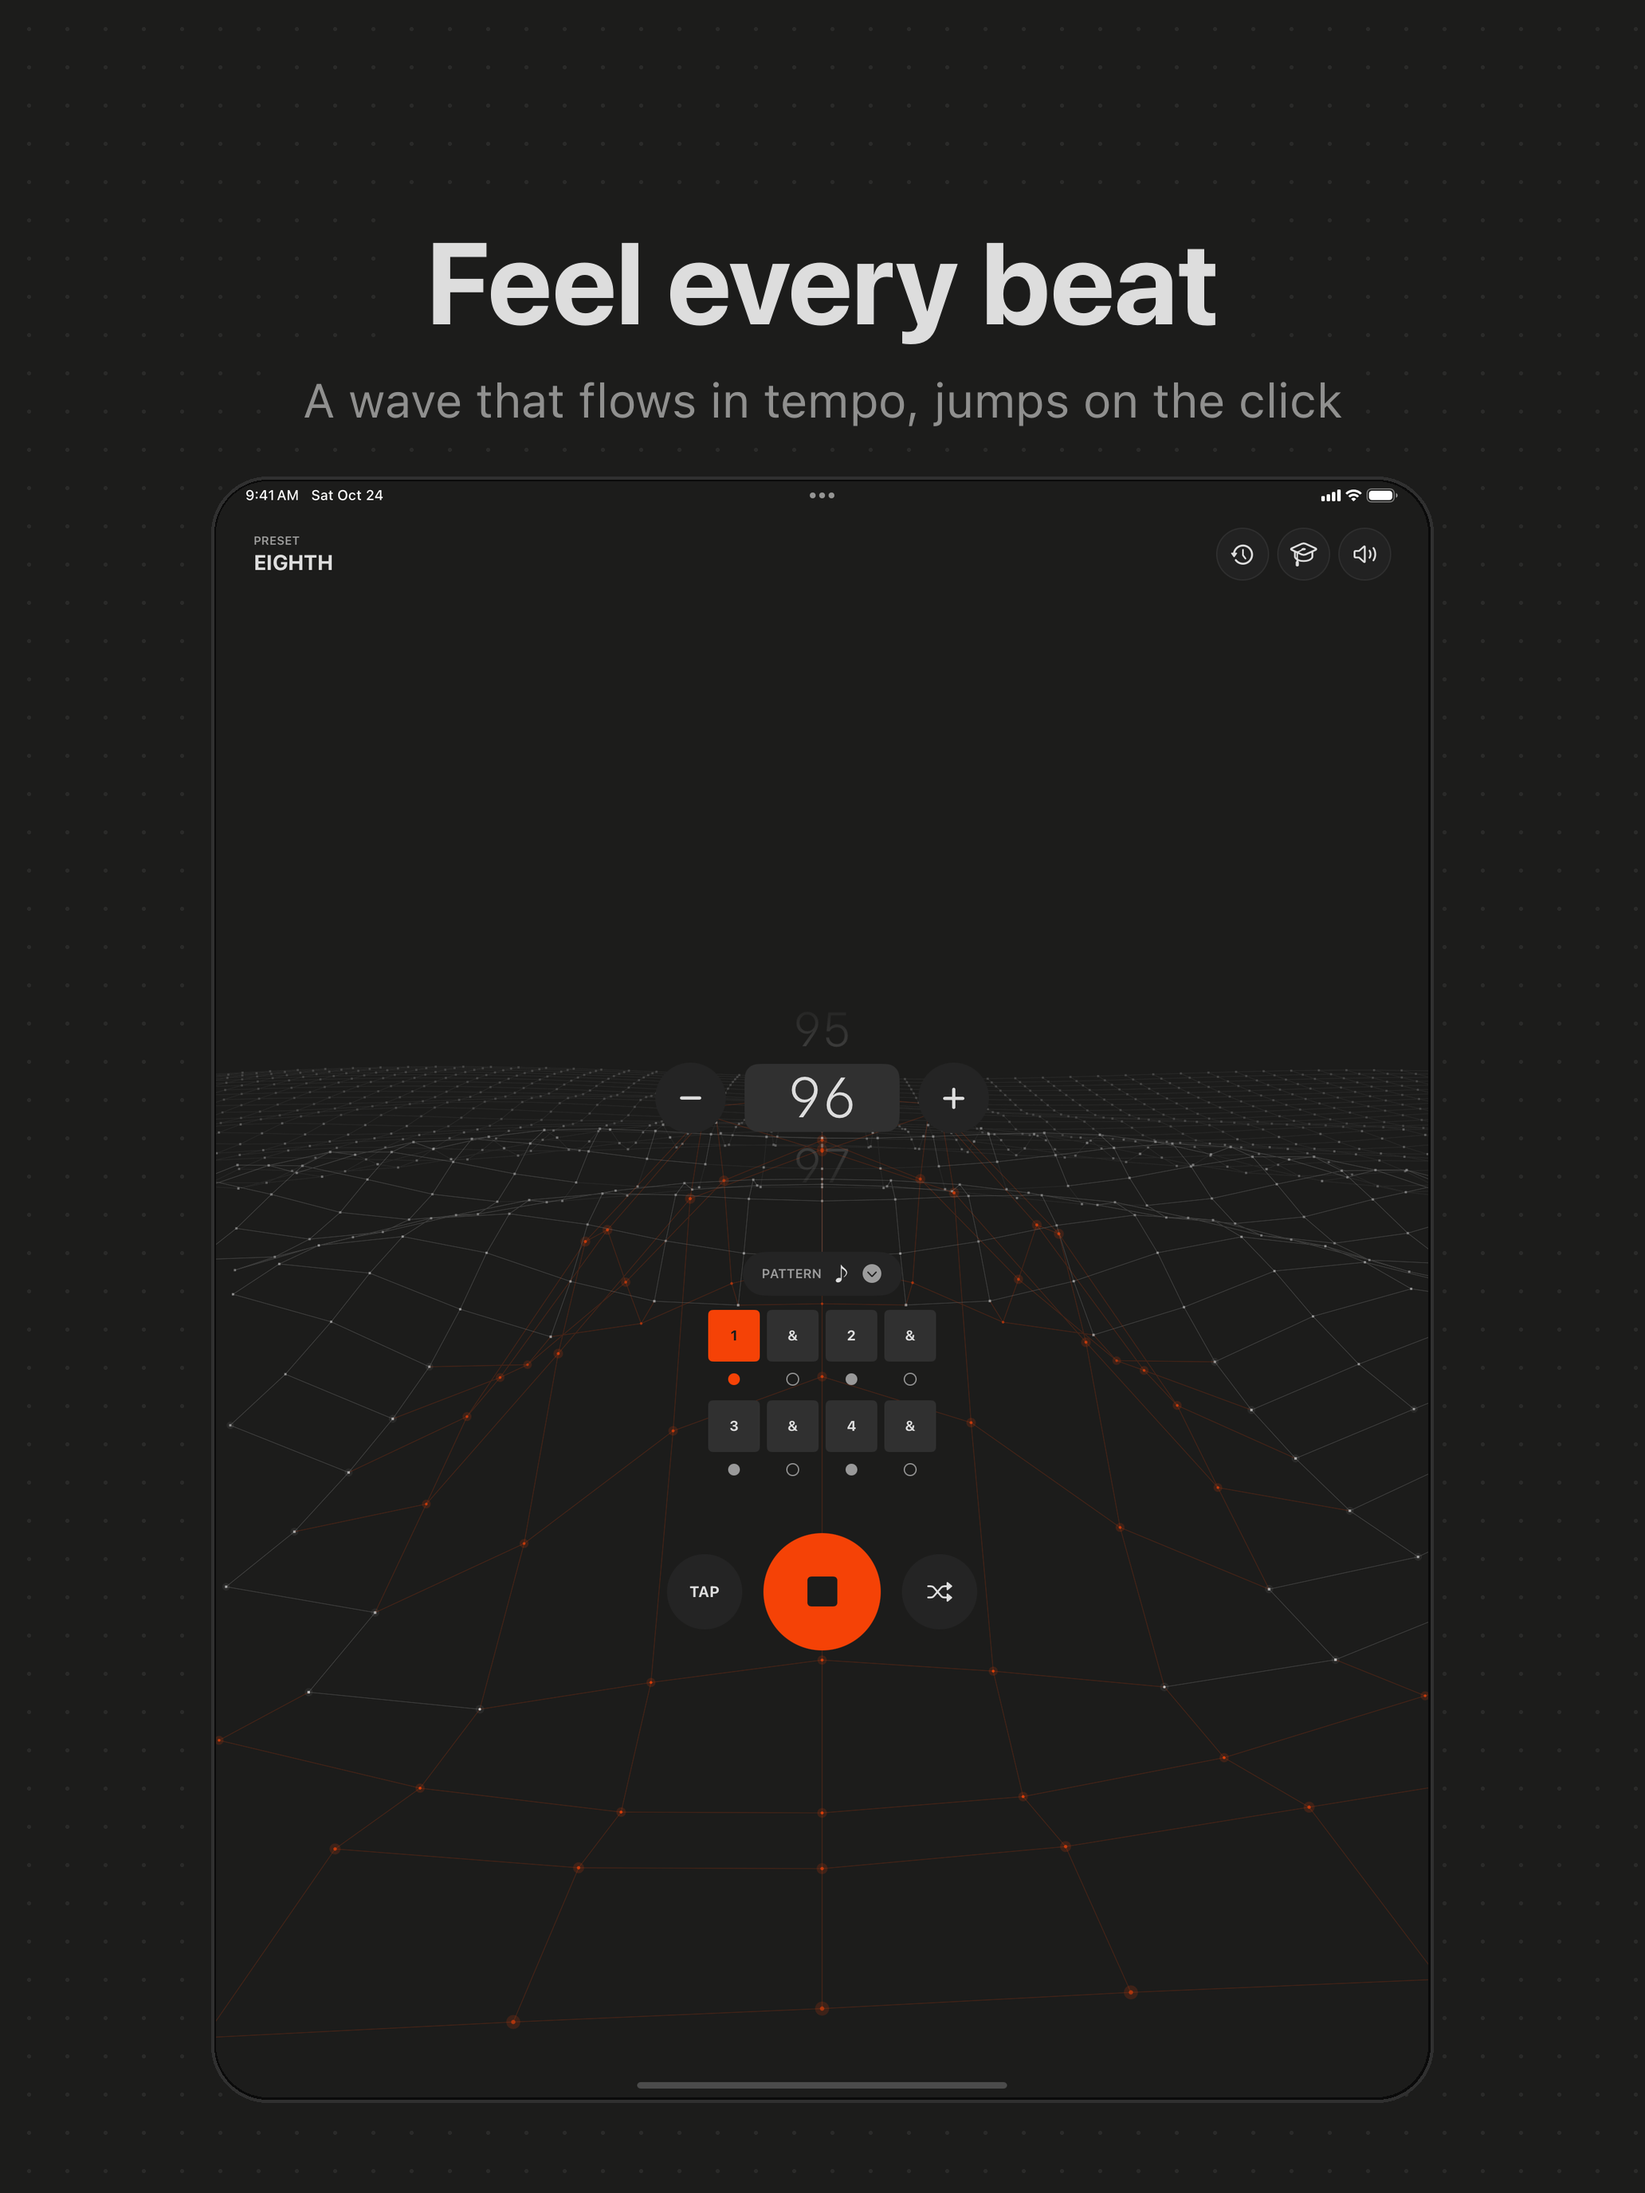
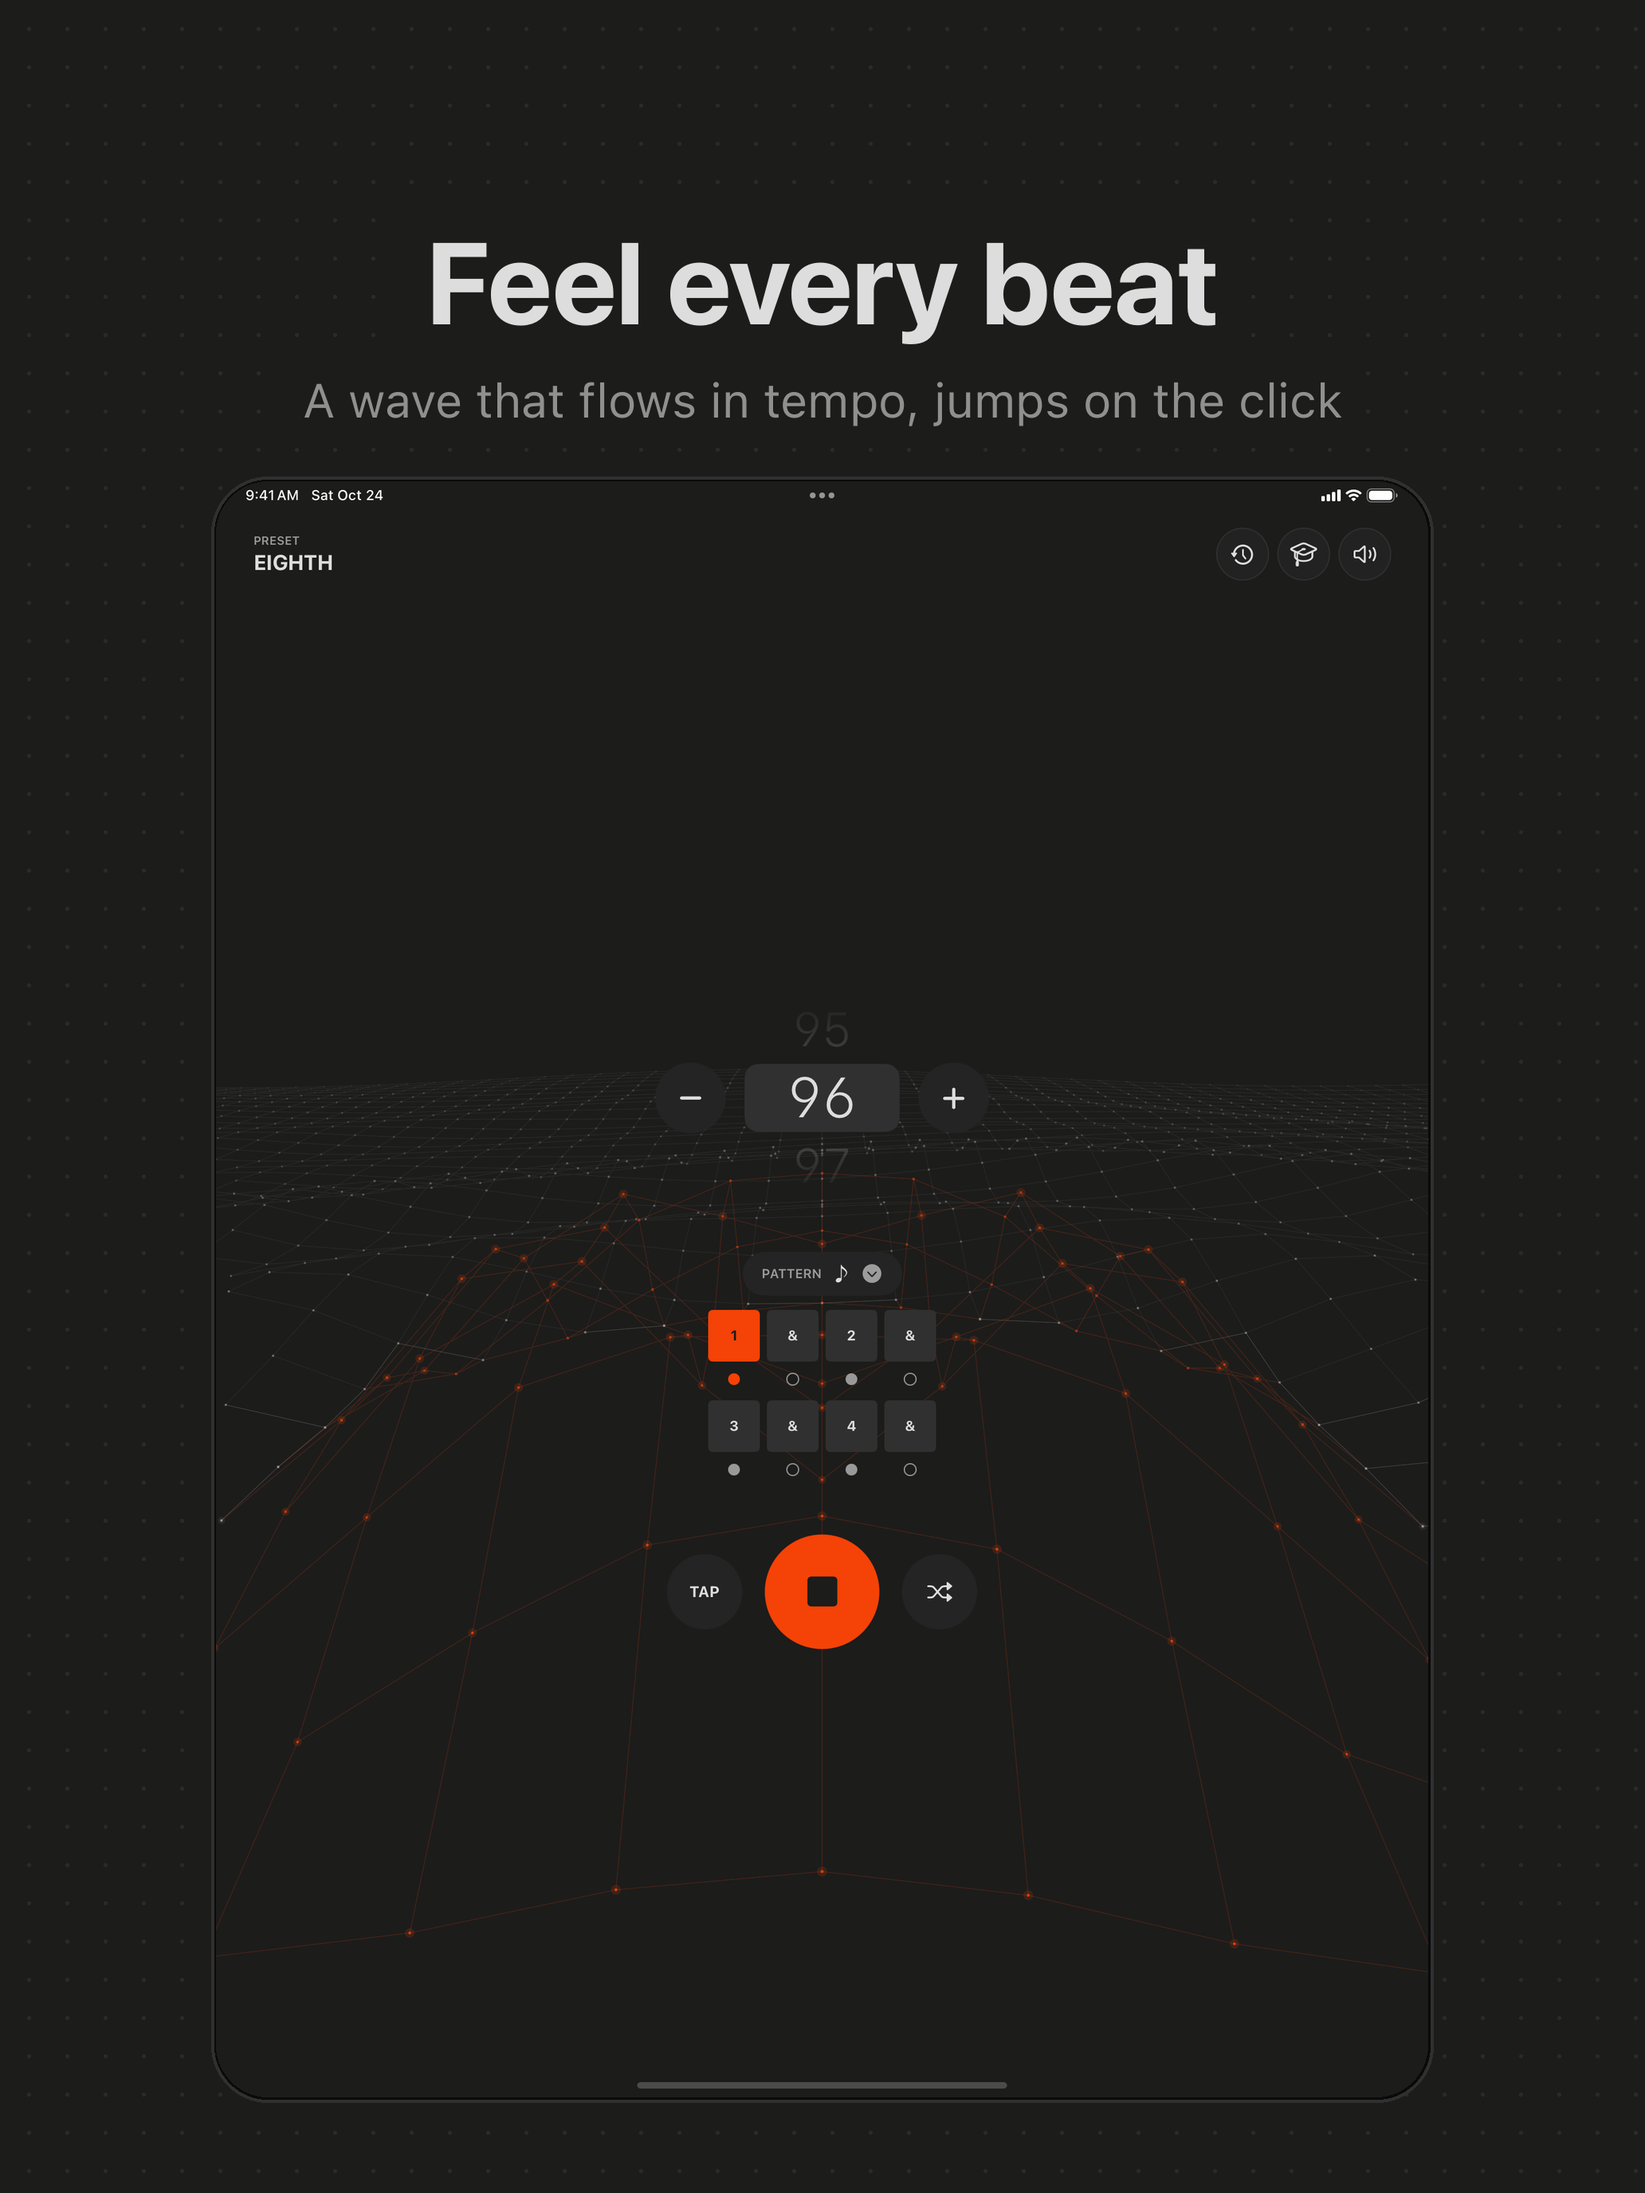
iPad store screenshots retaken with full-page sheets

diff --git a/docs/store/listing.md b/docs/store/listing.md
@@ -69,6 +69,8 @@ drum,drummer,metronome,groove,click,tempo,bpm,practice,rudiments,funk,ghost note
 ## Screenshots (iPad 13", 2064 x 2752)
 
 1. `screenshots-ipad/01-feel-every-beat.png` · Main screen playing, beat 1 on the wave
-2. `screenshots-ipad/02-loop-the-hard-part.png` · Paradiddle with loop on
+2. `screenshots-ipad/02-play-the-classics.png` · Learn, Funky Drummer playing
 3. `screenshots-ipad/03-grooves-and-exercises.png` · Categories sheet over Funk & Ghost Notes
-4. `screenshots-ipad/04-pick-your-sound.png` · Sound settings with click and Learn drum kit
+4. `screenshots-ipad/04-loop-the-hard-part.png` · Paradiddle with loop on and column cursor
+5. `screenshots-ipad/05-watch-it-add-up.png` · History, month view (fictional practice data)
+6. `screenshots-ipad/06-pick-your-sound.png` · Snare list of the Learn drum kit, with Your sounds and Import
